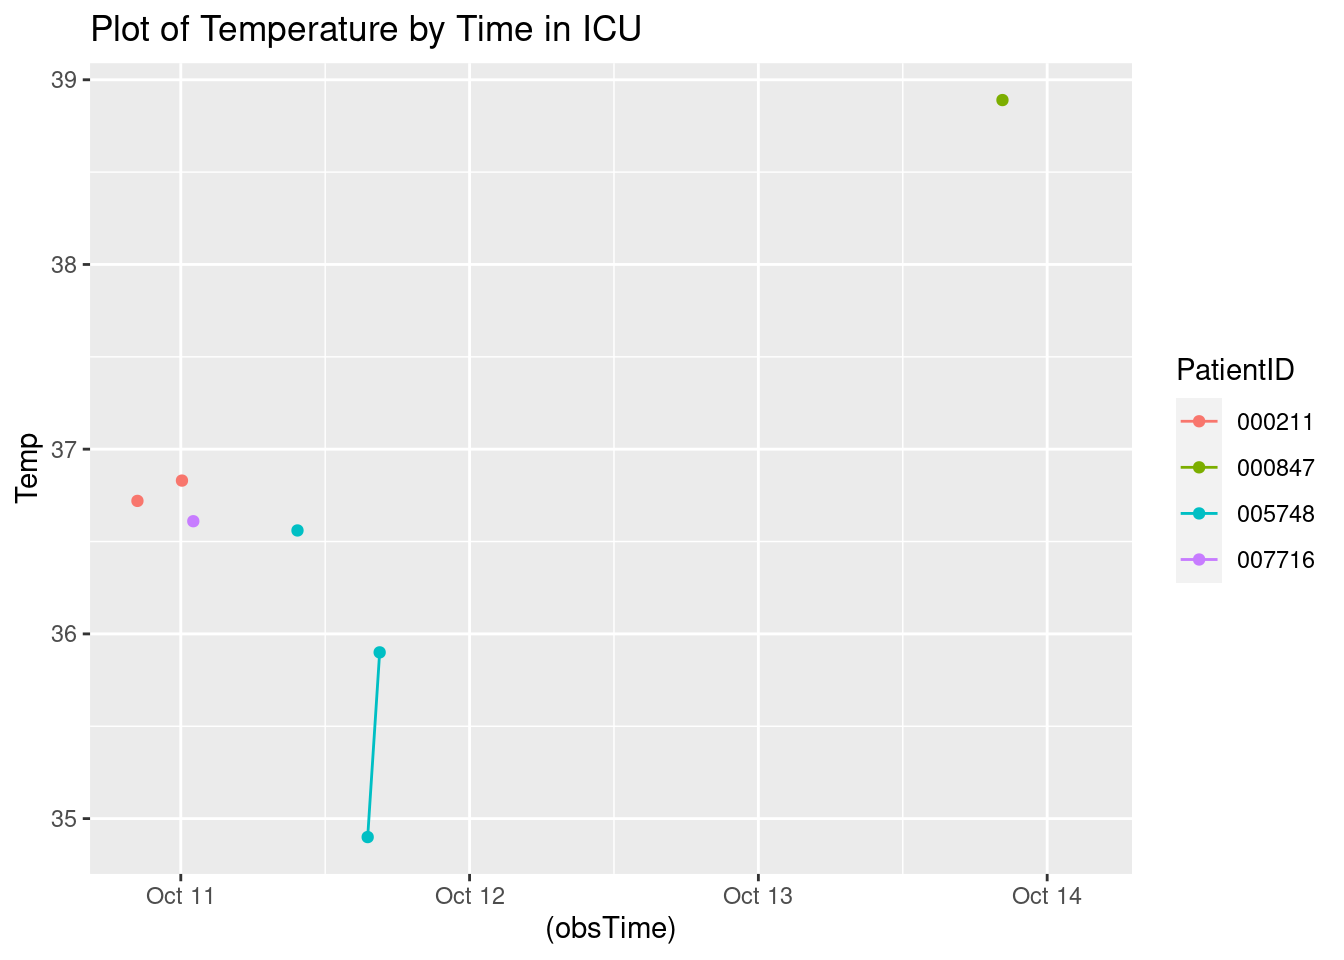
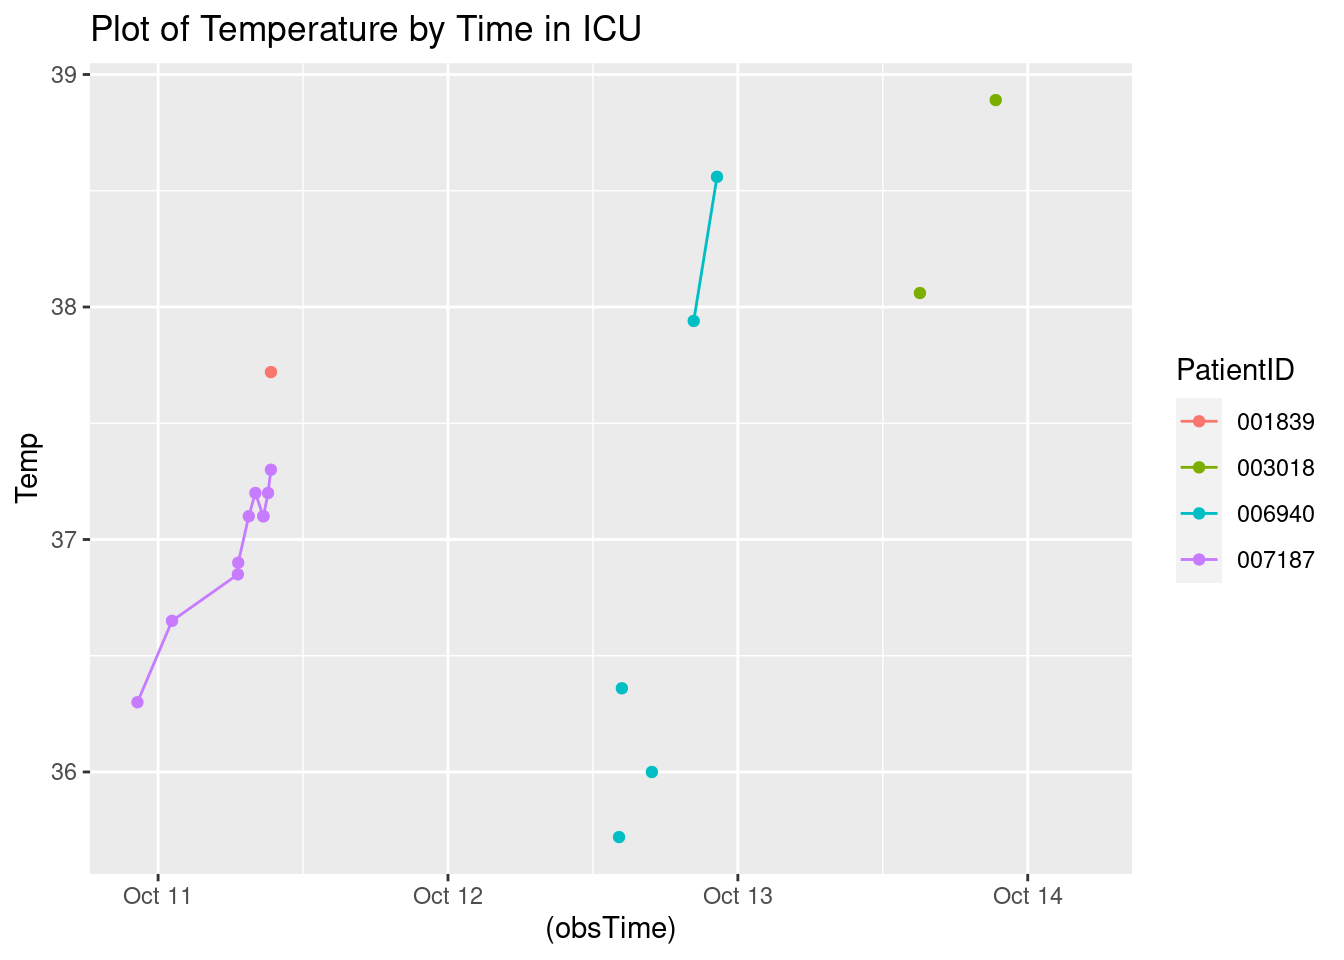
Updated report

diff --git a/A7.html b/A7.html
@@ -114,7 +114,7 @@ pre > code.sourceCode > span > a:first-child::before { text-decoration: underlin
 </div>
 <div class="sourceCode cell-code" id="cb4"><pre class="sourceCode r code-with-copy"><code class="sourceCode r"><span id="cb4-1"><a href="#cb4-1" aria-hidden="true" tabindex="-1"></a><span class="fu">toc</span>()</span></code><button title="Copy to Clipboard" class="code-copy-button"><i class="bi"></i></button></pre></div>
 <div class="cell-output cell-output-stdout">
-<pre><code>7.01 sec elapsed</code></pre>
+<pre><code>6.846 sec elapsed</code></pre>
 </div>
 <div class="sourceCode cell-code" id="cb6"><pre class="sourceCode r code-with-copy"><code class="sourceCode r"><span id="cb6-1"><a href="#cb6-1" aria-hidden="true" tabindex="-1"></a><span class="fu">tic</span>()</span>
 <span id="cb6-2"><a href="#cb6-2" aria-hidden="true" tabindex="-1"></a>test1<span class="ot">=</span><span class="fu">makeSepsisDataset</span>(<span class="at">n=</span><span class="dv">50</span>,<span class="at">read_fn =</span> <span class="st">"read_delim"</span>)</span>
@@ -124,7 +124,7 @@ pre > code.sourceCode > span > a:first-child::before { text-decoration: underlin
 </div>
 <div class="sourceCode cell-code" id="cb8"><pre class="sourceCode r code-with-copy"><code class="sourceCode r"><span id="cb8-1"><a href="#cb8-1" aria-hidden="true" tabindex="-1"></a><span class="fu">toc</span>()</span></code><button title="Copy to Clipboard" class="code-copy-button"><i class="bi"></i></button></pre></div>
 <div class="cell-output cell-output-stdout">
-<pre><code>26.588 sec elapsed</code></pre>
+<pre><code>25.351 sec elapsed</code></pre>
 </div>
 <div class="sourceCode cell-code" id="cb10"><pre class="sourceCode r code-with-copy"><code class="sourceCode r"><span id="cb10-1"><a href="#cb10-1" aria-hidden="true" tabindex="-1"></a><span class="co"># n=100</span></span>
 <span id="cb10-2"><a href="#cb10-2" aria-hidden="true" tabindex="-1"></a><span class="fu">tic</span>()</span>
@@ -135,7 +135,7 @@ pre > code.sourceCode > span > a:first-child::before { text-decoration: underlin
 </div>
 <div class="sourceCode cell-code" id="cb12"><pre class="sourceCode r code-with-copy"><code class="sourceCode r"><span id="cb12-1"><a href="#cb12-1" aria-hidden="true" tabindex="-1"></a><span class="fu">toc</span>()</span></code><button title="Copy to Clipboard" class="code-copy-button"><i class="bi"></i></button></pre></div>
 <div class="cell-output cell-output-stdout">
-<pre><code>12.517 sec elapsed</code></pre>
+<pre><code>12.155 sec elapsed</code></pre>
 </div>
 <div class="sourceCode cell-code" id="cb14"><pre class="sourceCode r code-with-copy"><code class="sourceCode r"><span id="cb14-1"><a href="#cb14-1" aria-hidden="true" tabindex="-1"></a><span class="fu">tic</span>()</span>
 <span id="cb14-2"><a href="#cb14-2" aria-hidden="true" tabindex="-1"></a>test1<span class="ot">=</span><span class="fu">makeSepsisDataset</span>(<span class="at">n=</span><span class="dv">100</span>,<span class="at">read_fn =</span> <span class="st">"read_delim"</span>)</span>
@@ -145,7 +145,7 @@ pre > code.sourceCode > span > a:first-child::before { text-decoration: underlin
 </div>
 <div class="sourceCode cell-code" id="cb16"><pre class="sourceCode r code-with-copy"><code class="sourceCode r"><span id="cb16-1"><a href="#cb16-1" aria-hidden="true" tabindex="-1"></a><span class="fu">toc</span>()</span></code><button title="Copy to Clipboard" class="code-copy-button"><i class="bi"></i></button></pre></div>
 <div class="cell-output cell-output-stdout">
-<pre><code>49.235 sec elapsed</code></pre>
+<pre><code>47.502 sec elapsed</code></pre>
 </div>
 <div class="sourceCode cell-code" id="cb18"><pre class="sourceCode r code-with-copy"><code class="sourceCode r"><span id="cb18-1"><a href="#cb18-1" aria-hidden="true" tabindex="-1"></a><span class="co"># n=500</span></span>
 <span id="cb18-2"><a href="#cb18-2" aria-hidden="true" tabindex="-1"></a><span class="fu">tic</span>()</span>
@@ -156,7 +156,7 @@ pre > code.sourceCode > span > a:first-child::before { text-decoration: underlin
 </div>
 <div class="sourceCode cell-code" id="cb20"><pre class="sourceCode r code-with-copy"><code class="sourceCode r"><span id="cb20-1"><a href="#cb20-1" aria-hidden="true" tabindex="-1"></a><span class="fu">toc</span>()</span></code><button title="Copy to Clipboard" class="code-copy-button"><i class="bi"></i></button></pre></div>
 <div class="cell-output cell-output-stdout">
-<pre><code>61.802 sec elapsed</code></pre>
+<pre><code>60.648 sec elapsed</code></pre>
 </div>
 <div class="sourceCode cell-code" id="cb22"><pre class="sourceCode r code-with-copy"><code class="sourceCode r"><span id="cb22-1"><a href="#cb22-1" aria-hidden="true" tabindex="-1"></a><span class="fu">tic</span>()</span>
 <span id="cb22-2"><a href="#cb22-2" aria-hidden="true" tabindex="-1"></a>test1<span class="ot">=</span><span class="fu">makeSepsisDataset</span>(<span class="at">n=</span><span class="dv">500</span>,<span class="at">read_fn =</span> <span class="st">"read_delim"</span>)</span>
@@ -166,7 +166,7 @@ pre > code.sourceCode > span > a:first-child::before { text-decoration: underlin
 </div>
 <div class="sourceCode cell-code" id="cb24"><pre class="sourceCode r code-with-copy"><code class="sourceCode r"><span id="cb24-1"><a href="#cb24-1" aria-hidden="true" tabindex="-1"></a><span class="fu">toc</span>()</span></code><button title="Copy to Clipboard" class="code-copy-button"><i class="bi"></i></button></pre></div>
 <div class="cell-output cell-output-stdout">
-<pre><code>249.899 sec elapsed</code></pre>
+<pre><code>237.034 sec elapsed</code></pre>
 </div>
 </div>
 <p><strong>Task 3</strong></p>
@@ -192,7 +192,7 @@ pre > code.sourceCode > span > a:first-child::before { text-decoration: underlin
 <span id="cb28-4"><a href="#cb28-4" aria-hidden="true" tabindex="-1"></a></span>
 <span id="cb28-5"><a href="#cb28-5" aria-hidden="true" tabindex="-1"></a><span class="fu">Sys.time</span>()</span></code><button title="Copy to Clipboard" class="code-copy-button"><i class="bi"></i></button></pre></div>
 <div class="cell-output cell-output-stdout">
-<pre><code>[1] "2023-10-10 20:23:52 UTC"</code></pre>
+<pre><code>[1] "2023-10-10 21:21:54 UTC"</code></pre>
 </div>
 <div class="sourceCode cell-code" id="cb30"><pre class="sourceCode r code-with-copy"><code class="sourceCode r"><span id="cb30-1"><a href="#cb30-1" aria-hidden="true" tabindex="-1"></a>dfnew <span class="ot">&lt;-</span> df <span class="sc">%&gt;%</span></span>
 <span id="cb30-2"><a href="#cb30-2" aria-hidden="true" tabindex="-1"></a>  <span class="fu">subset</span>(SepsisLabel<span class="sc">==</span><span class="dv">1</span>)</span>
@@ -221,40 +221,40 @@ pre > code.sourceCode > span > a:first-child::before { text-decoration: underlin
 </thead>
 <tbody>
 <tr class="odd">
-<td style="text-align: left;">000211</td>
-<td style="text-align: right;">7</td>
-<td style="text-align: right;">88</td>
-<td style="text-align: right;">NA</td>
-<td style="text-align: right;">22</td>
-<td style="text-align: right;">1</td>
-<td style="text-align: left;">2023-10-11 02:04:19</td>
-</tr>
-<tr class="even">
-<td style="text-align: left;">000847</td>
-<td style="text-align: right;">79</td>
-<td style="text-align: right;">118</td>
-<td style="text-align: right;">NA</td>
+<td style="text-align: left;">001839</td>
 <td style="text-align: right;">24</td>
+<td style="text-align: right;">NA</td>
+<td style="text-align: right;">NA</td>
+<td style="text-align: right;">27</td>
 <td style="text-align: right;">1</td>
-<td style="text-align: left;">2023-10-14 03:07:58</td>
-</tr>
-<tr class="odd">
-<td style="text-align: left;">005748</td>
-<td style="text-align: right;">21</td>
-<td style="text-align: right;">81</td>
-<td style="text-align: right;">35.9</td>
-<td style="text-align: right;">19</td>
-<td style="text-align: right;">1</td>
-<td style="text-align: left;">2023-10-11 16:31:36</td>
+<td style="text-align: left;">2023-10-11 20:05:25</td>
 </tr>
 <tr class="even">
-<td style="text-align: left;">007716</td>
-<td style="text-align: right;">7</td>
-<td style="text-align: right;">75</td>
+<td style="text-align: left;">003018</td>
+<td style="text-align: right;">81</td>
+<td style="text-align: right;">94</td>
 <td style="text-align: right;">NA</td>
 <td style="text-align: right;">17</td>
 <td style="text-align: right;">1</td>
-<td style="text-align: left;">2023-10-11 02:22:35</td>
+<td style="text-align: left;">2023-10-14 04:43:51</td>
+</tr>
+<tr class="odd">
+<td style="text-align: left;">006940</td>
+<td style="text-align: right;">50</td>
+<td style="text-align: right;">88</td>
+<td style="text-align: right;">NA</td>
+<td style="text-align: right;">28</td>
+<td style="text-align: right;">1</td>
+<td style="text-align: left;">2023-10-12 22:58:53</td>
+</tr>
+<tr class="even">
+<td style="text-align: left;">007187</td>
+<td style="text-align: right;">12</td>
+<td style="text-align: right;">118</td>
+<td style="text-align: right;">37.3</td>
+<td style="text-align: right;">29</td>
+<td style="text-align: right;">1</td>
+<td style="text-align: left;">2023-10-11 09:20:23</td>
 </tr>
 </tbody>
 </table>
